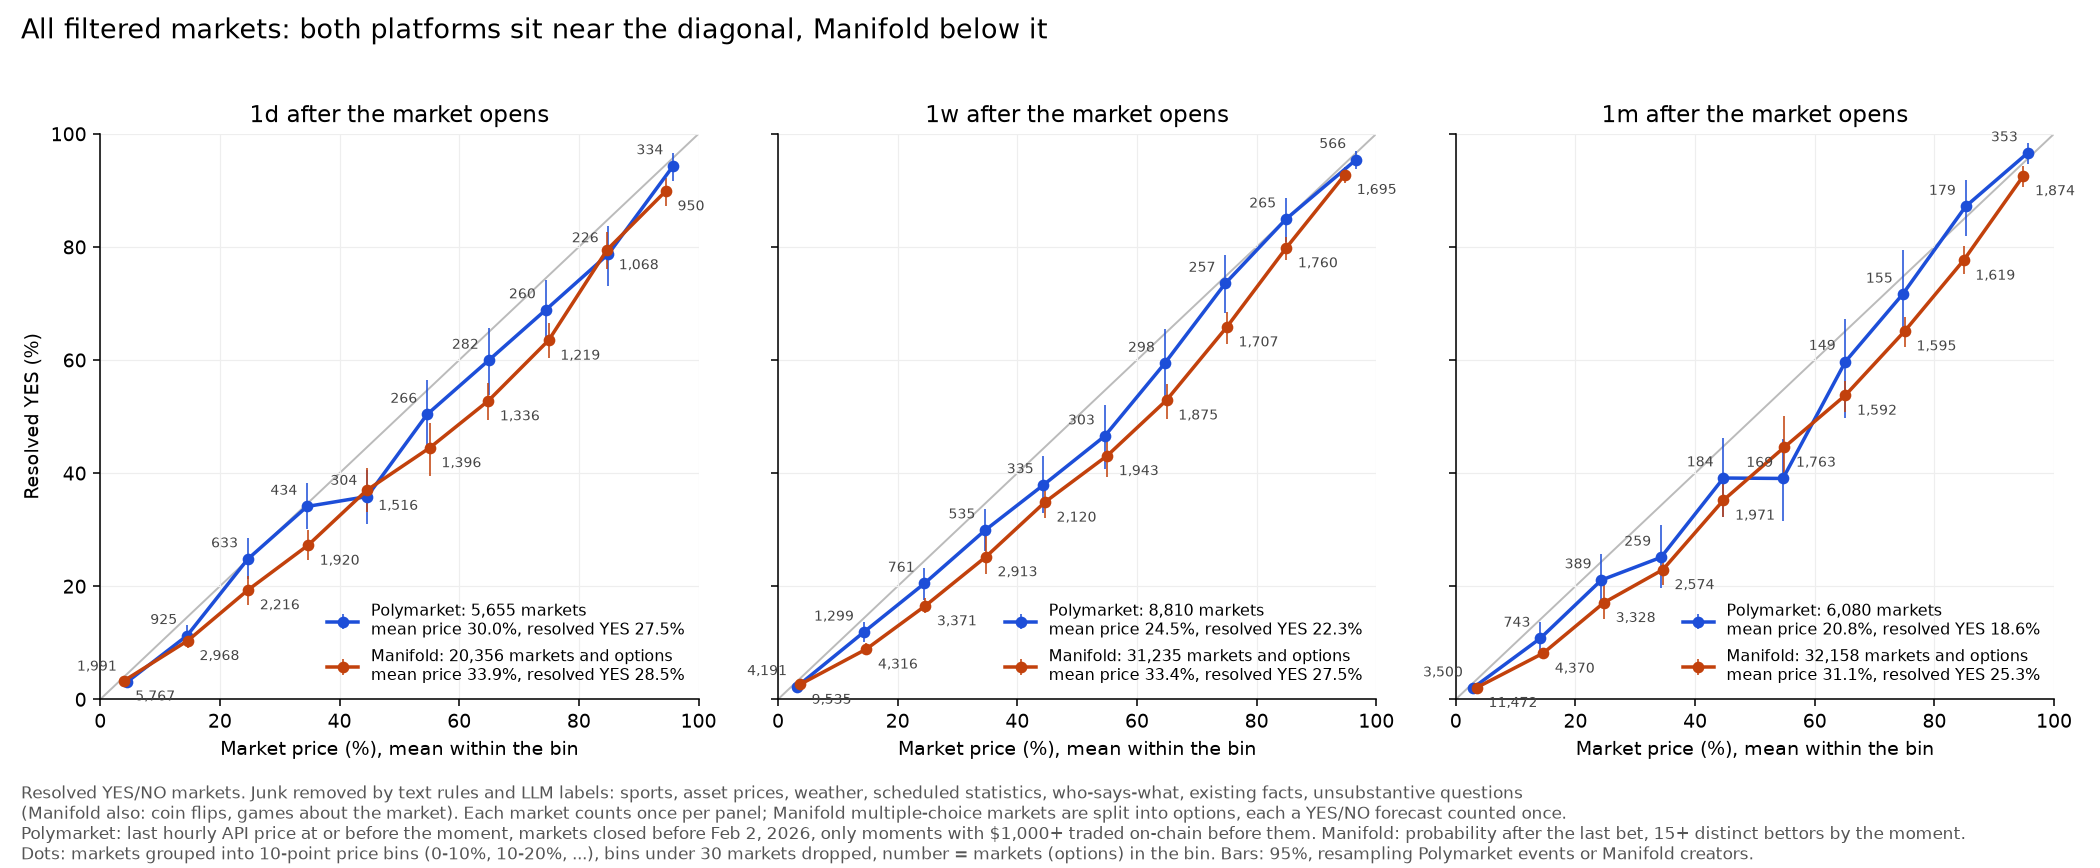
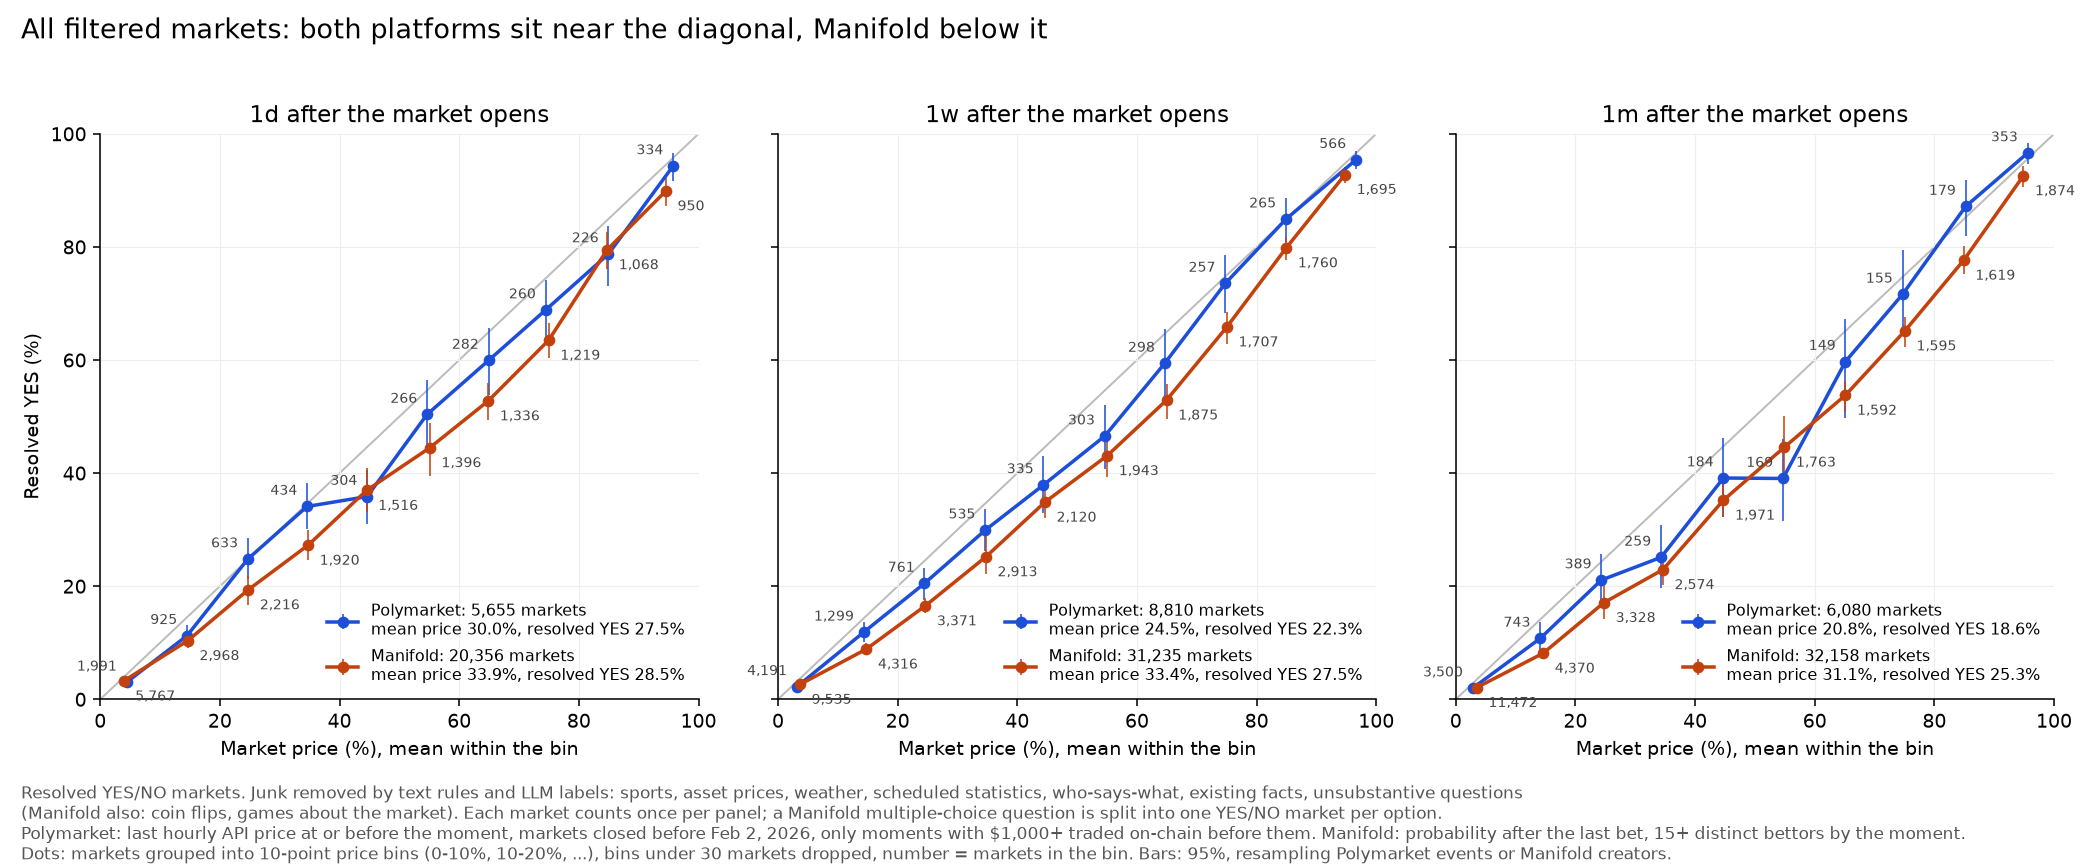
lw_calibration: current Polymarket event-weighted numbers; market/event wording in captions (other session)

diff --git a/src/both_platforms.py b/src/both_platforms.py
@@ -24,7 +24,7 @@ mc = importlib.util.module_from_spec(spec)
 spec.loader.exec_module(mc)
 
 OUT, HORIZONS, MIN_BIN = ROOT / "plots", ["1d", "1w", "1m"], 30
-PLATFORMS = [("Polymarket", "#1d4ed8", "markets"), ("Manifold", "#c2410c", "markets and options")]
+PLATFORMS = [("Polymarket", "#1d4ed8", "markets"), ("Manifold", "#c2410c", "markets")]
 
 
 def load():
@@ -73,10 +73,10 @@ def figure(data, keep, name, title):
         ax.legend(frameon=False, fontsize=8, loc="lower right")
     axes[0].set_ylabel("Resolved YES (%)")
     fig.suptitle(title, x=.01, ha="left", fontsize=14)
-    fig.text(.01, .01, "Resolved YES/NO markets. Junk removed by text rules and LLM labels: sports, asset prices, weather, scheduled statistics, who-says-what, existing facts, unsubstantive questions\n(Manifold also: coin flips, games about the market). Each market counts once per panel; Manifold multiple-choice markets are split into options, each a YES/NO forecast counted once.\n"
+    fig.text(.01, .01, "Resolved YES/NO markets. Junk removed by text rules and LLM labels: sports, asset prices, weather, scheduled statistics, who-says-what, existing facts, unsubstantive questions\n(Manifold also: coin flips, games about the market). Each market counts once per panel; a Manifold multiple-choice question is split into one YES/NO market per option.\n"
              "Polymarket: last hourly API price at or before the moment, markets closed before Feb 2, 2026, only moments with $1,000+ traded on-chain before them. "
              "Manifold: probability after the last bet, 15+ distinct bettors by the moment.\n"
-             "Dots: markets grouped into 10-point price bins (0-10%, 10-20%, ...), bins under 30 markets dropped, number = markets (options) in the bin. "
+             "Dots: markets grouped into 10-point price bins (0-10%, 10-20%, ...), bins under 30 markets dropped, number = markets in the bin. "
              "Bars: 95%, resampling Polymarket events or Manifold creators.", fontsize=8.5, color="#555555")
     fig.tight_layout(rect=(0, .1, 1, .96))
     fig.savefig(OUT / name, dpi=140)

diff --git a/lw_calibration.md b/lw_calibration.md
@@ -2,13 +2,13 @@
 
 **Short answer: mostly, apart from one predictable bias.** Both platforms overprice "something happens": when a question resolves NO if nothing new happens ("Will X happen by June?"), YES is too expensive. More on the bias in [the other post](TODO-link).
 
-- **Polymarket is close to calibrated.** One week after a market opens, prices average 24.5% and 22.3% of markets resolve YES (8,810 markets).
-- **Manifold overprices YES by about 8 points** (40.0% priced, 32.3% resolved YES; 9,762 markets). Almost all of this gap comes from the bias above.
-- **On questions where nothing happening doesn't decide the answer**, such as elections and awards, both platforms are close to the diagonal: Polymarket is off by under 1 point, Manifold by about 4.
+- **Polymarket is close to calibrated.** One week after a market opens, prices average 24.4% and 22.4% of markets resolve YES (11,881 markets).
+- **Manifold overprices YES by about 6 points** (33.4% priced, 27.5% resolved YES; 31,235 binary markets and multiple-choice options). Almost all of this gap comes from the bias above.
+- **On questions where nothing happening doesn't decide the answer**, such as elections and awards, both platforms are close to the diagonal: Polymarket is off by under 1 point, Manifold by about 3.
 
 ![Both platforms, all filtered markets](plots/all_markets.png)
 
-*Every filtered market on both platforms (filters below). We take each market's price 1 day, 1 week and 1 month after it opens. We sort the markets into price bins (0–10%, 10–20%, …). For each bin, the x-axis shows the mean price of its markets and the y-axis shows the share that resolved YES. If prices mean what they say, the dots sit on the diagonal. The number next to each dot is how many markets are in the bin. Bars are 95% bootstrap intervals.*
+*Every filtered market on both platforms (filters below). We take each market's price 1 day, 1 week and 1 month after it opens. We sort the markets into price bins (0–10%, 10–20%, …). For each bin, the x-axis shows the mean price of its markets and the y-axis shows the share that resolved YES. If prices mean what they say, the dots sit on the diagonal. The number next to each dot is how many markets are in the bin. Manifold multiple-choice markets are split into options ("Who will win? — Alice"), each counted as its own yes/no market. Bars are 95% bootstrap intervals.*
 
 ![Both platforms, no default side only](plots/no_default_side.png)
 
@@ -19,16 +19,11 @@
 
 About 95% of Polymarket markets are crypto and other asset prices ("Bitcoin up or down?"), sports questions that mirror ordinary betting (who wins A vs B, with what score) and weather forecasts. On top of that come things like "how many tweets will Elon post next week". I've seen a couple of papers that check how calibrated the markets are, but they never filtered the junk out. I wondered what happens if you seriously try to look only at reasonable markets.
 
-First, a regex filter removed sports, asset-price and weather markets. Then an LLM answered 25 yes/no questions about the text of each remaining market. The questions target the biggest kinds of junk Opus 5.5 high found in samples of a few hundred markets that got through the regex: coin flips, games about the market itself, and the like. On Manifold, Jev (a cheap classification model) did this labeling, on Polymarket it was Haiku 5.5.[^1] We keep only markets whose answers flag none of these. We also drop markets that score below a hand-picked cutoff on a separate question with a numerical answer, how substantive the question is.[^2]
-
-[^1]: In a 200-market pilot, Jev and Haiku (medium effort, one market per call, as used here) agreed with Opus 5.5 about equally often. I didn't want to spend more money on API calls, so Haiku, which ran on included credit, labeled Polymarket.
-
-[^2]: For people suspicious of this last metric: you are right to be suspicious. But Jev's judgement on Manifold was surprisingly decent wherever Opus 5.5 and I looked (Opus rated 9 of 100 random kept markets as hardly substantive). And the Polymarket markets this whole LLM filter drops are calibrated about like the ones it keeps: shift −0.17 against −0.24, 1 week after opening.
-
+First, a regex filter removed sports, asset-price and weather markets. Then an LLM answered 25 yes/no questions about the text of each remaining market. The questions target the biggest kinds of junk Opus 5.5 high found in samples of a few hundred markets that got through the regex: coin flips, games about the market itself, and the like. On Manifold, Jev (a cheap classification model) did this labeling, on Polymarket it was Haiku 5.5 *footnote saying here Haiku was slightly worse at classification than Jev on manifol but I didn't want to spend more money on API so I used Haiku for multiple choice manifold and all of polymarket. They mostly agreed on Manifold* , and we keep only markets whose answers flag none of these. We also drop markets that score below a hand-picked cutoff on a separate question with a numerical answer, how substantive the question is. *Footnote: for people suspicious of this last metric: you are correct to be suspicious, but Jev's Manifold judgement was surpisingly decent where Opus 5.5 and I looked at, and the markets Haiku dropped on Polymarket based on its rule had exactly the same numbers.*
 
 We also dropped thinly traded moments. On Polymarket, a market counts at a given moment only if $1,000 had already been traded on it. On Manifold, at least 15 different people must have bet on it by then.
 
-Another "junk market" caveat is weighting by events. An "event" is one question with many options split into many yes/no markets. For example, "Who will be the next US president?" becomes one market per candidate. Weighting per market makes the numbers less noisy, weighting per event makes few many-option markets not dominate the analysis. This only applies to Polymarket, because Manifold's multiple-choice markets aren't in our sample. Thankfully, both ways of weighting give basically the same result. The plots count every market separately. The numbers with each event weighing one are in the methodology section below.
+Another "junk market" caveat is weighting by events. An "event" is one question with many options split into many yes/no markets. For example, "Who will be the next US president?" becomes one market per candidate. Weighting per market makes the numbers less noisy, weighting per event makes few many-option markets not dominate the analysis. On Manifold the same thing happens in multiple-choice markets, where each option is a yes/no forecast. Thankfully, both ways of weighting give basically the same result. The plots count every market (or option) separately. The numbers with each event (or multiple-choice market) weighing one are in the methodology section below.
 
 Finally, series. Some questions repeat with only a number or date changed, such as weekly tweet counts or "ceasefire by June / July / August". These could have needed a rule, such as "count at most N events per series". Turned out, we didn't need one: after our filters, the few remaining long series carried little weight, and capping each series at 5 events barely changed anything.
 
@@ -43,8 +38,8 @@ Do the prices of Polymarket and Manifold match how often things actually happen,
 
 ### Data
 
-- **Polymarket:** we used Polymarket's own APIs (Gamma for market data, CLOB for price history). Dollars traded before each moment come from the Becker on-chain trades dataset, which ends on 2026-02-02. Of about 2.06M Polymarket markets, our regex rules flag 1.12M as sports, 0.75M as asset prices and 0.09M as weather. We remove those and keep resolved Yes/No markets that closed before 2026-02-02 with at least $1,000 of lifetime volume: 36,853 markets, which then go through the LLM filter below.
-- **Manifold:** we used Manifold's public API, fetched on 2026-10-30. We kept resolved binary markets with at least 15 bettors and at least 1,000 mana traded over the market's lifetime: 37,680 markets. Of these, 27,752 are labeled as questions about the world. Multiple-choice markets are excluded.
+- **Polymarket:** we used Polymarket's own APIs (Gamma for market data, CLOB for price history). Dollars traded before each moment come from the Becker on-chain trades dataset, which ends on 2026-02-02. Of about 2.06M Polymarket markets, our regex rules flag 1.12M as sports, 0.75M as asset prices and 0.09M as weather. We remove those and keep resolved Yes/No markets that closed before 2026-02-02 with at least $1,000 of lifetime volume: 36,853 markets.
+- **Manifold:** we used Manifold's public API, fetched on 2026-10-30. We kept resolved binary markets with at least 15 bettors and at least 1,000 mana traded over the market's lifetime: 37,680 markets. Of these, 27,752 are labeled as questions about the world. Separately, we fetched resolved multiple-choice markets with the same thresholds (10,373 markets) and treated each option as its own yes/no forecast: in one-winner markets the winning option is YES and the rest are NO; otherwise each option resolves on its own. "Other", options resolved N/A, and one-winner markets resolved to a split are dropped. Haiku 5.5 labeled these, one call per market, with the same junk rule; it also answered the "nothing happens" question per option. An option counts at a moment only if it already existed and was still unresolved.
 
 ### Which markets count as junk
 
@@ -55,8 +50,8 @@ Do the prices of Polymarket and Manifold match how often things actually happen,
   4. "not a substantive question about the world" (Jev 0.2 or lower).
 
   Everything else is "world": the 27,752 markets above. On 100 random world markets, Opus scored 9 as hardly substantive, 5 of them about one streamer.
-- **Polymarket:** Haiku 5.5 answered the same kinds of tag questions. We drop a market if Haiku tags it as a crypto or other asset price, sports, a central-bank rate, weather, a scheduled release (CPI, jobs reports), who-says-what or post counts, or an existing fact, or if it scores 20 or less out of 100 on "substantive". At 1 week this drops 3,071 of 11,881 markets (26%), mostly who-says-what and tweet counts (1,925). Rankings like box office and app-store charts stay in.
-- **How much the LLM filter matters, 1 week after opening.** On Polymarket, without it the shift is −0.23; with it, −0.24. On Manifold, with the regex alone instead of the LLM filter, it is −0.47 instead of −0.51 (10,777 markets). The sports, price and weather markets the regex removes from Manifold are calibrated (+0.01, 919 markets). The ones it removes from Polymarket were never priced.
+- **Polymarket:** only the regex filter above. Who-says-what markets and rankings stay in the sample (about 35% of markets, but about 8% of dollars traded). Removing them moves the overall shift from −0.23 to −0.25, and the shift for "nothing happening means NO" from −0.34 to −0.35. Note the asymmetry: Manifold drops who-says-what markets, Polymarket keeps them.
+- **Same rule on both platforms, 1 week after opening.** Manifold's rule applied to Polymarket, using Haiku's tags: we drop markets tagged as asset prices, sports, central-bank rates, weather, scheduled releases, who-says-what or existing facts, or with a substantive score of 20 or less. That drops 26% of markets, and the shift goes from −0.23 to −0.24. Polymarket's rule applied to Manifold binary markets (regex only): the shift goes from −0.51 to −0.47 on 10,777 markets. The markets the regex removes from Manifold are calibrated (+0.01, 919 markets). Polymarket's regex-removed markets were never priced.
 
 ### Forecasts
 
@@ -64,7 +59,7 @@ Do the prices of Polymarket and Manifold match how often things actually happen,
 - **Why not "N days before resolution":** the resolution date depends on the outcome. "By date" questions resolve early when YES happens, so "1 week before resolution" is a different calendar moment for YES markets and NO markets. That makes the numbers look better than they are; see the other post. Fixed times after opening don't depend on the outcome.
 - **Polymarket price:** the last hourly point of the CLOB price history at or before the moment, at most 3 days old. A market counts only if at least $1,000 had been traded on-chain before the moment. Without this rule, empty order books show fake prices near 50%. We also drop markets in one-winner events whose prices, at that moment, sum to more than 130%.
 - **Manifold price:** the probability after the last bet that moved the price, at or before the moment. A market counts only if at least 15 distinct bettors had bet by then.
-- **Counts at 1 week:** 22,228 Polymarket markets have a price; 11,881 of them pass the $1,000 rule, and 8,810 also pass the LLM filter. 1,697 Polymarket markets from before 2023 traded on an older system with no on-chain record, so they drop out. On Manifold, 9,762 of 27,748 labeled world markets have 15 bettors by then and are still open.
+- **Counts at 1 week:** 22,228 Polymarket markets have a price, and 11,881 of them pass the $1,000 rule. 1,697 Polymarket markets from before 2023 traded on an older system with no on-chain record, so they drop out. On Manifold, 9,762 of 27,748 labeled binary world markets have 15 bettors by then and are still open, plus 21,473 world options from 1,998 multiple-choice markets.
 
 ### "No default side"
 
@@ -88,16 +83,16 @@ Haiku 5.5 (medium effort, one market per call, text only) answered:
 
 | | Markets | Mean price → YES rate | Shift (95%) | Brier (baseline) | AUROC | Balanced accuracy |
 |---|---|---|---|---|---|---|
-| Polymarket, all | 8,810 | 24.5% → 22.3% | −0.24 (−0.31 to −0.18) | 0.090 (0.173) | 0.91 | 0.79 |
-| Polymarket, no default side | 3,810 | 23.9% → 23.0% | −0.13 (−0.19 to −0.06) | 0.078 (0.177) | 0.94 | 0.82 |
-| Manifold, all world | 9,762 | 40.0% → 32.3% | −0.51 (−0.57 to −0.45) | 0.150 (0.219) | 0.85 | 0.76 |
-| Manifold, no default side | 1,529 | 48.1% → 44.2% | −0.23 (−0.35 to −0.11) | 0.169 (0.247) | 0.83 | 0.74 |
+| Polymarket, all | 11,881 | 24.4% → 22.4% | −0.23 (−0.28 to −0.17) | 0.087 (0.174) | 0.92 | 0.80 |
+| Polymarket, no default side | 6,077 | 23.2% → 22.5% | −0.11 (−0.17 to −0.05) | 0.074 (0.174) | 0.94 | 0.83 |
+| Manifold, all world | 31,235 | 33.4% → 27.5% | −0.46 (−0.52 to −0.39) | 0.126 (0.199) | 0.88 | 0.78 |
+| Manifold, no default side | 12,032 | 30.5% → 27.1% | −0.31 (−0.41 to −0.21) | 0.112 (0.198) | 0.90 | 0.80 |
 
-The 1-day and 1-month numbers tell the same story; they are in `plots/metrics.csv`. On Polymarket, giving each event a total weight of 1 gives shifts of −0.31 (−0.39 to −0.22) for all markets (4,652 events) and −0.08 (−0.21 to +0.03) for no default side (1,169 events). An earlier run, before the LLM filter on Polymarket, grouped repeating events into series by title, with numbers and dates removed. Series with more than 5 events held 10% of the event weight at 1 week, and capping each series at 5 events cut that to 5%. The cap made no visible difference, so the final plots don't use it.
+The 1-day and 1-month numbers tell the same story; they are in `plots/metrics.csv`. On Polymarket, giving each event a total weight of 1 gives shifts of −0.31 (−0.39 to −0.22) for all markets (4,652 events) and −0.08 (−0.21 to +0.03) for no default side (1,169 events). On Manifold, giving each multiple-choice market a total weight of 1 (spread over its options) gives −0.48 (−0.54 to −0.43) for all markets (11,760 markets) and −0.23 (−0.31 to −0.14) for no default side. An earlier run grouped repeating events into series by title, with numbers and dates removed. Series with more than 5 events held 10% of the event weight at 1 week, and capping each series at 5 events cut that to 5%. The cap made no visible difference, so the final plots don't use it.
 
 **Read with care:**
 - The two platforms' samples contain different questions, so these numbers don't say which platform forecasts better.
-- Manifold numbers probably understate the overpricing. Markets that were still unresolved at the fetch are missing, and the recent markets that have resolved lean YES. If we keep only markets whose stated deadline passed at least 60 days before the fetch, Manifold's overall gap grows from 7.7 to 9.9 points. On Polymarket, the same filter moves the "nothing happening means NO" shift from −0.33 to −0.37 (3,336 markets).
+- Manifold numbers probably understate the overpricing. Markets that were still unresolved at the fetch are missing, and the recent markets that have resolved lean YES. If we keep only markets whose stated deadline passed at least 60 days before the fetch, the overall gap of Manifold binary markets grows from 7.7 to 9.9 points. On Polymarket, the same filter leaves the "nothing happening means NO" shift unchanged at −0.34.
 - Manifold's lifetime requirement of 1,000 mana traded uses information from after the moment.
 
 ### Reproduce

diff --git a/lw_bias.md b/lw_bias.md
@@ -65,7 +65,7 @@ We also checked the default-NO and default-YES bias year by year, only on Manifo
 *Manifold questions about the world, price 1 week after creation, grouped by the year the market was created. Y-axis: the log-odds shift for each group. The number next to each dot is the number of markets. Left: all resolved markets. Right: only markets whose stated deadline passed at least 60 days before we fetched the data (see "Filtering unresolved markets" above). The 2026 "means YES" bar on the right runs off the top of the plot: with 60 markets, the interval says little.*
 
 Comments:
-- The left panel exists to show how one can accidentally argue for "the bias is steadily improving". Recent markets that have already resolved are disproportionately early YESes, so recent years look less overpriced than they are. The right panel keeps only markets whose deadline passed 60+ days before we fetched the data, so almost all of them had time to resolve.
+- The left panel exists to show how one can accidentally argue for "the bias is steadily improving". As argued above, recent markets that have already resolved are disproportionately early YESes, so recent years look better than they are.
 - Almost half of 2026's markets come from three monthly multiple-choice series that happen to be well calibrated ("What will happen in <month>?", "<Month> AI model releases", "Which YouTube channels will release a video in <month>?"). Counting each multiple-choice question once instead of each of its options, 2026 is as biased as 2024–2025.
 
 Where nothing happening means YES, YES is underpriced in every year, but there are few such markets. "No default side" sits in between, mostly slightly overpriced.
